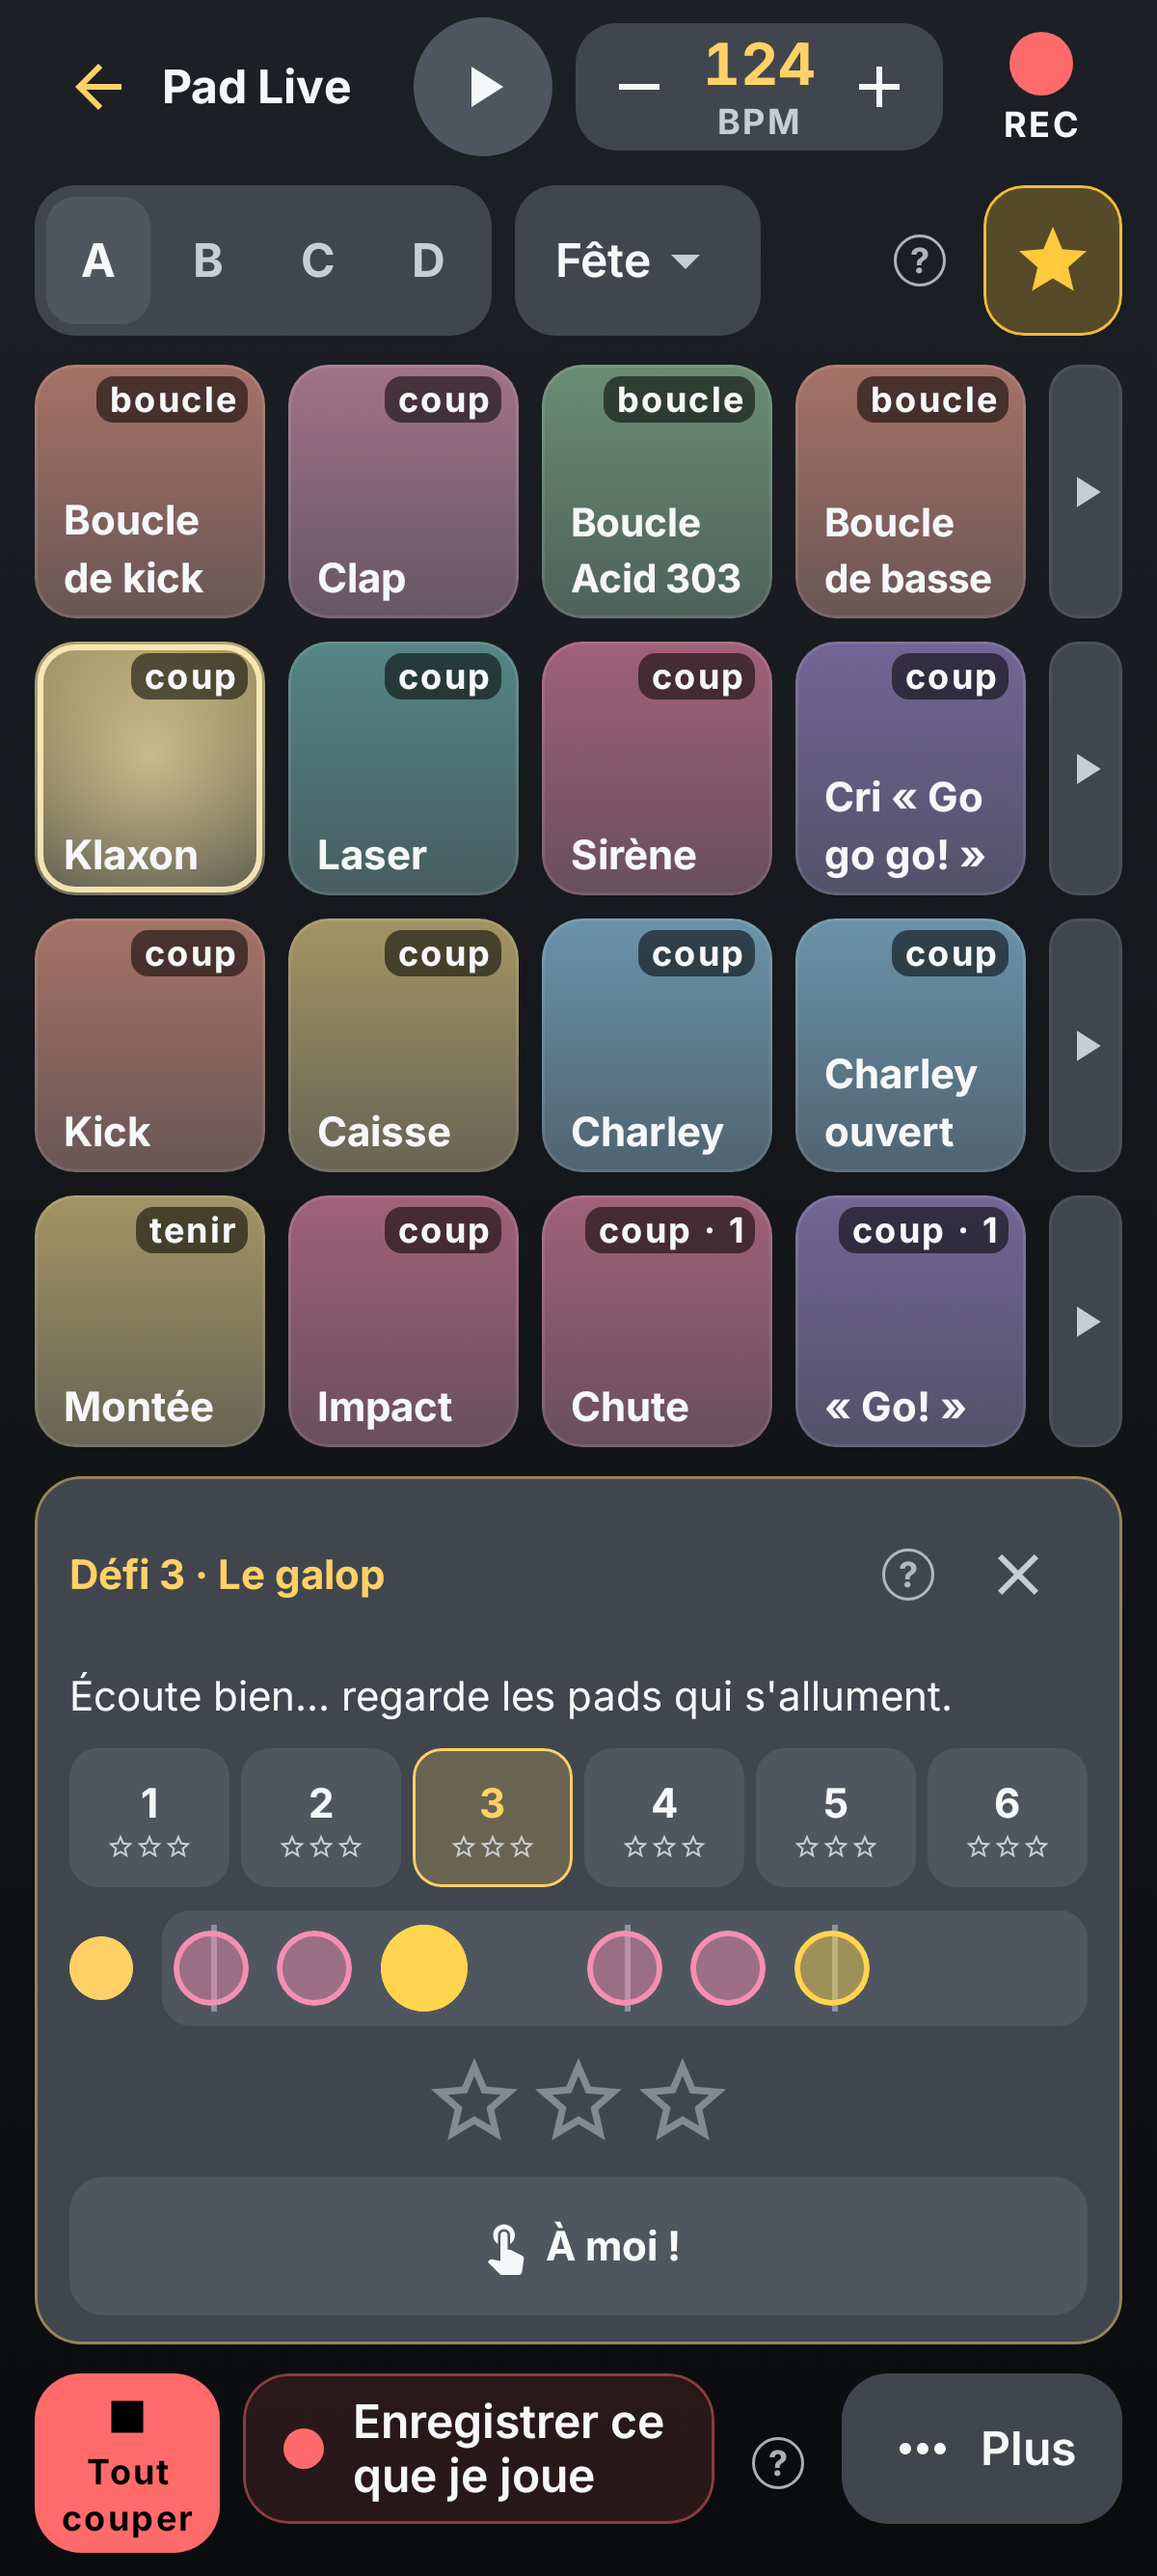
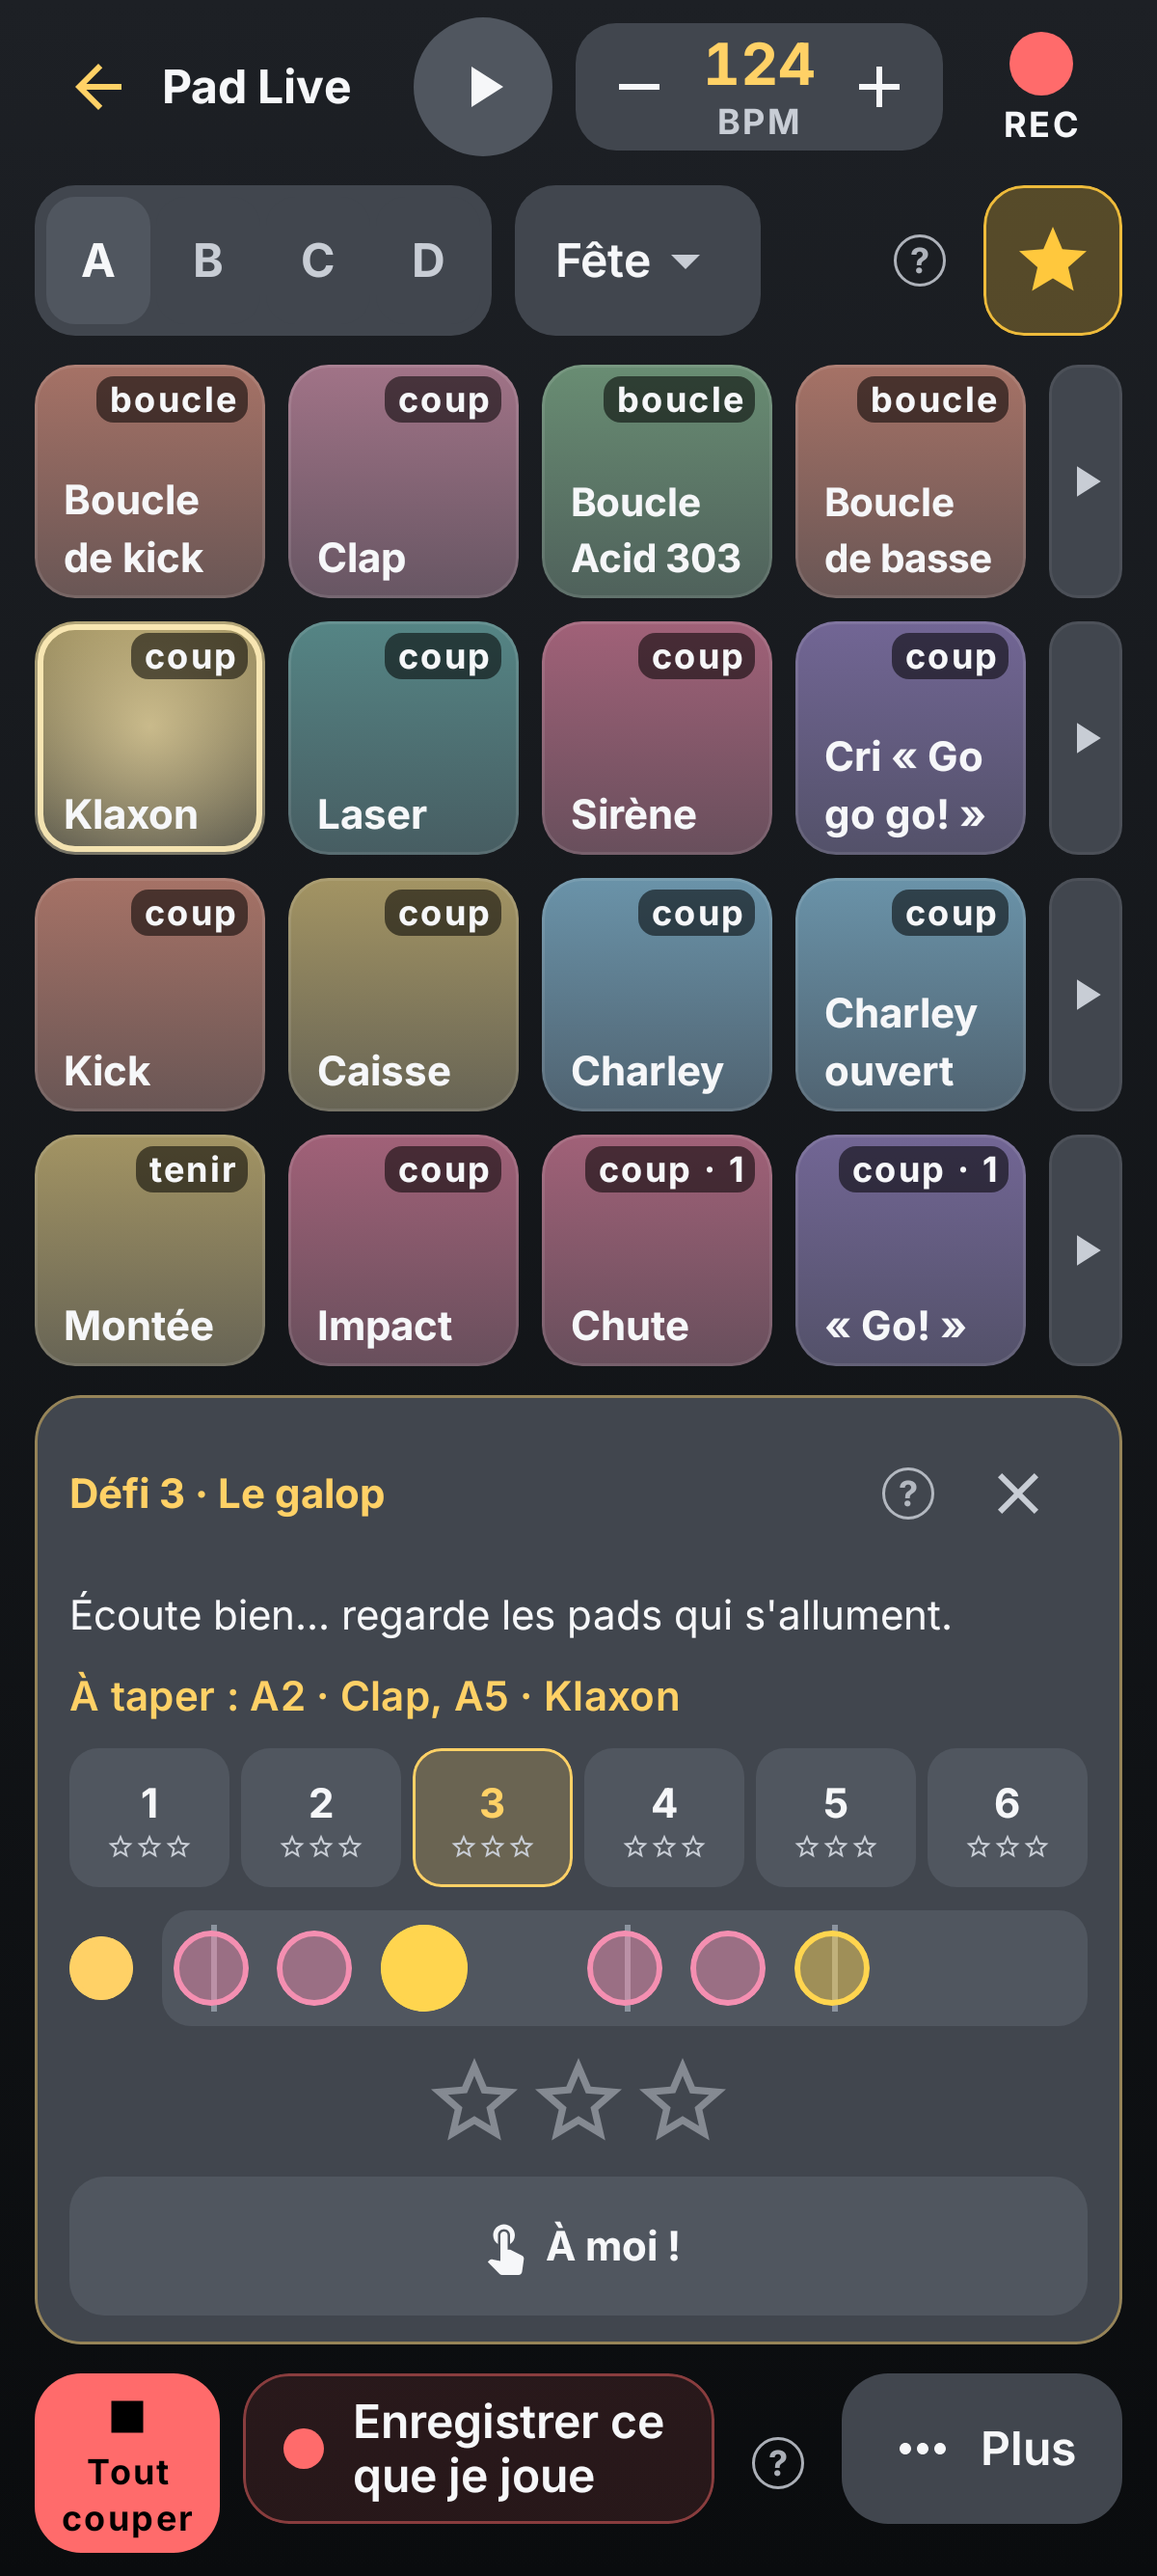
vert: a Pad Live challenge names the pads to tap
Before and during the try the challenge's panel says « À taper : A9 · Klaxon » (each pad of the
rhythm by its place and its sound); the new line is translated in the 14 languages (one key added to
each padlive.json). Capture padlive_challenge recorded again and looked at.

Claude-Session: https://claude.ai/code/session_014RxrDJrxB99nBtYo7nF9Yf

Changed region(s): [[0.0308, 0.1865, 0.9867, 0.6839]]

diff --git a/app/src/main/java/com/pocketstudio/app/padlive/Challenge.kt b/app/src/main/java/com/pocketstudio/app/padlive/Challenge.kt
@@ -373,6 +373,17 @@ internal fun ChallengePanel(
             line, style = MaterialTheme.typography.bodyMedium, color = Neon.TextPrimary, maxLines = 2, overflow = TextOverflow.Ellipsis,
             modifier = Modifier.fillMaxWidth().semantics { liveRegion = LiveRegionMode.Polite }.testTag("padlive_challenge_line"),
         )
+        // Tour 6 lot 7 (« Boum boum »): the pads to tap, by their place and their sound (« A9 · Klaxon »), before and
+        // during the try (only the colour of the rhythm's dots hinted at them).
+        if (c != null && (ui is ChallengeUi.Ready || ui is ChallengeUi.Listening || ui is ChallengeUi.YourTurn)) {
+            val names = c.hits.map { it.pad }.distinct().joinToString(", ") { pad ->
+                padName(pad) + (pads.all.getOrNull(pad)?.name?.takeIf { it.isNotBlank() }?.let { " · $it" } ?: "")
+            }
+            Text(
+                tr("À taper : %s", names), style = MaterialTheme.typography.labelLarge, color = Neon.Amber, maxLines = 2,
+                overflow = TextOverflow.Ellipsis, modifier = Modifier.fillMaxWidth().testTag("padlive_challenge_pads"),
+            )
+        }
         // Audit ultra round 1, n° 9: every challenge with its best stars, one touch to play it (it went back
         // to challenge 1 with no list, and a try worse than the best seemed to wipe it).
         // Round 3, zone 1, n° 5: shown in every state, so that nothing moves under the finger as the try is scored.
